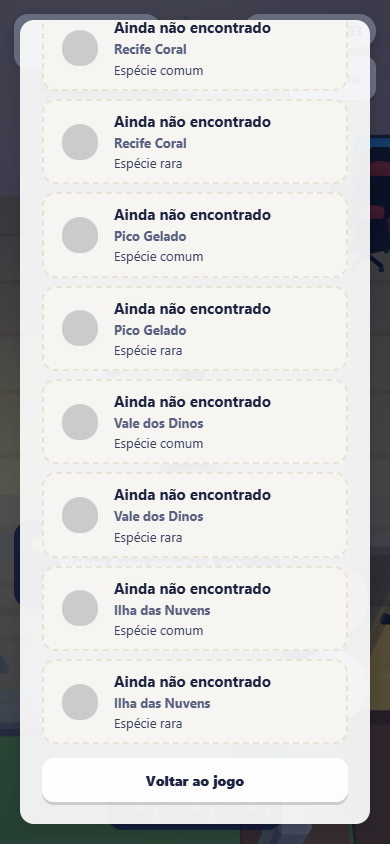
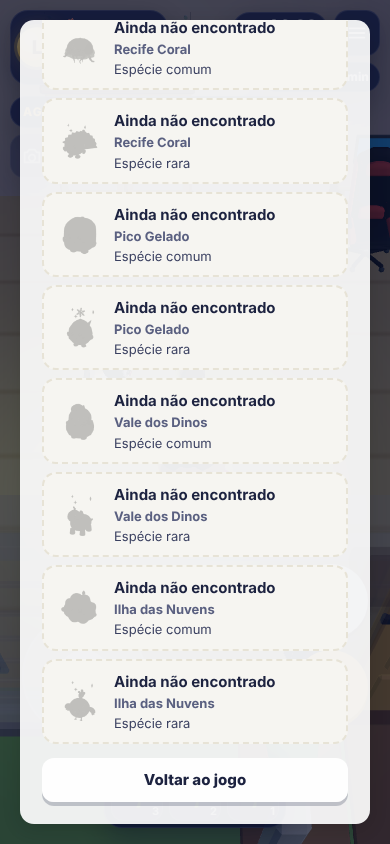
test(arquipelago): verificador do álbum com as seis seções e as miniaturas dos Lumis
O álbum ganhou a seção dos achados do Recife e as estrelas dos 15 percursos
desde que o verificador foi escrito: a conferência agora espera as seis
seções. Prints novos dos Lumis com as miniaturas e as silhuetas.

Claude-Session: https://claude.ai/code/session_01TuSjUt4wC3mmYT1mb7PCif

diff --git a/packages/arquipelago/playground/verificar-album-browser.ts b/packages/arquipelago/playground/verificar-album-browser.ts
@@ -1,7 +1,7 @@
 /**
  * O álbum de coleções e o modo foto no navegador (fase2-09). Só usa a plataforma falsa, sem banco.
  *
- * Abre o álbum pelo menu, confere as cinco seções, entra no modo foto (F no computador, o botão do
+ * Abre o álbum pelo menu, confere as seis seções, entra no modo foto (F no computador, o botão do
  * menu no toque), confere que o HUD sumiu, que o personagem fica parado e a câmera gira, tira a
  * foto e confere o PNG baixado (maior que zero e com a assinatura de PNG), e sai (Esc ou "Voltar").
  *
@@ -80,7 +80,8 @@ const CASOS = [
     semeado: true,
     titulos: [
       'Bichos do Bosque: 2 de 4',
-      'Estrelas dos percursos: 2 de 6',
+      'Achados do Recife: 0 de 3',
+      'Estrelas dos percursos: 2 de 15',
       'Aparências guardadas: 1 de 9',
       'Lumis presos: 3 de 14',
     ],
@@ -96,7 +97,8 @@ const CASOS = [
     semeado: false,
     titulos: [
       'Bichos do Bosque: 0 de 4',
-      'Estrelas dos percursos: 0 de 6',
+      'Achados do Recife: 0 de 3',
+      'Estrelas dos percursos: 0 de 15',
       'Aparências guardadas: 0 de 9',
       'Lumis presos: 0 de 14',
     ],
@@ -149,7 +151,7 @@ try {
     const album = pagina.getByRole('dialog', { name: 'Álbum de coleções' })
     await album.waitFor()
     const titulos = await album.locator('h3').allTextContents()
-    assert.equal(titulos.length, 5, `seções: ${titulos.join(' | ')}`)
+    assert.equal(titulos.length, 6, `seções: ${titulos.join(' | ')}`)
     for (const t of caso.titulos)
       assert(titulos.includes(t), `falta "${t}" em ${titulos.join(' | ')}`)
     assert(titulos.some((t) => t.startsWith('Receitas: ')))
@@ -251,7 +253,7 @@ try {
     if (caso.toque) assert.equal(await pagina.locator('.arq-zona-joystick').count(), 1)
     assert.deepEqual(erros, [])
     console.log(
-      `PASS ${caso.nome}: álbum com as cinco seções, modo foto sem HUD, PNG de ${png.length} bytes, volta do HUD`,
+      `PASS ${caso.nome}: álbum com as seis seções, modo foto sem HUD, PNG de ${png.length} bytes, volta do HUD`,
     )
     await contexto.close()
   }

diff --git a/docs/qa/2026-10-29-arquipelago-album.md b/docs/qa/2026-10-29-arquipelago-album.md
@@ -45,7 +45,7 @@ O roteiro grava no `localStorage` do playground um jogo com:
 |---|---|
 | `assets/2026-10-29-arquipelago-album/computador-1-album.png` | O começo do álbum: "Bichos do Bosque: 2 de 4" e "Receitas: 4 de 6", com "Faltam 2." |
 | `assets/2026-10-29-arquipelago-album/computador-2-album-aparencias.png` | As estrelas dos percursos (2 de 6, com o melhor tempo) e as aparências (a geladeira pintada, o forno sem aparência e os que ainda não chegaram em silhueta). |
-| `assets/2026-10-29-arquipelago-album/computador-3-album-lumis.png` | Os Lumis em duas colunas: Estrelinha, Pitanga e Brigadeiro presos, com quantos; as outras 11 espécies em silhueta. |
+| `assets/2026-10-29-arquipelago-album/computador-3-album-lumis.png` | Os Lumis em duas colunas, com as miniaturas dos modelos (29/10 à noite): Estrelinha, Pitanga e Brigadeiro presos, com quantos; as outras 11 espécies na silhueta escura da própria forma. |
 | `assets/2026-10-29-arquipelago-album/computador-4-modo-foto.png` | O modo foto: só o cartão com a dica, "Voltar" e "Tirar foto". |
 | `assets/2026-10-29-arquipelago-album/computador-5-foto-baixada.png` | O PNG baixado, sem nada do HUD. |
 | `assets/2026-10-29-arquipelago-album/computador-6-foto-pronta.png` | Depois da foto: "Foto pronta. Ela ficou só neste aparelho." e "Baixar de novo". |
@@ -56,7 +56,7 @@ O roteiro grava no `localStorage` do playground um jogo com:
 |---|---|
 | `assets/2026-10-29-arquipelago-album/celular-1-album.png` | O álbum de um jogo novo: tudo por achar, com a dica de onde procurar. |
 | `assets/2026-10-29-arquipelago-album/celular-2-album-aparencias.png` | As aparências, uma coluna. |
-| `assets/2026-10-29-arquipelago-album/celular-3-album-lumis.png` | As 14 silhuetas dos Lumis. |
+| `assets/2026-10-29-arquipelago-album/celular-3-album-lumis.png` | As 14 silhuetas dos Lumis (a forma de cada espécie). |
 | `assets/2026-10-29-arquipelago-album/celular-4-modo-foto.png` | O modo foto no celular: o cartão e "Voltar" no alto, "Tirar foto" embaixo à direita. |
 | `assets/2026-10-29-arquipelago-album/celular-5-foto-baixada.png` | O PNG baixado. |
 | `assets/2026-10-29-arquipelago-album/celular-6-foto-pronta.png` | "Foto pronta" no celular. |
